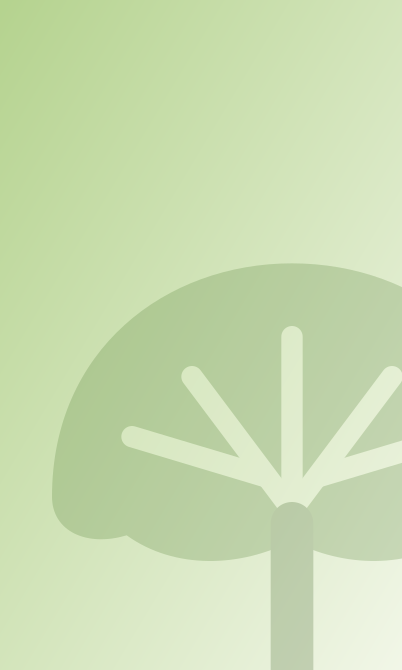
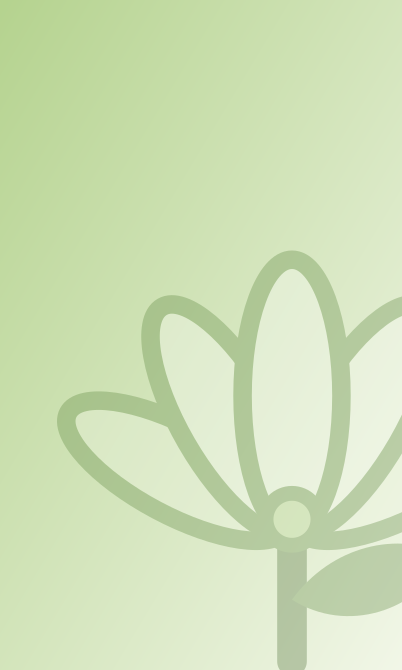
ロゴマークを市の花「コブシ」に変更
- 会派名（立川けやき会）との連想を避けるため、ケヤキの木のマークを
  市の花コブシをモチーフにしたオリジナルのマークに差し替え
- アイコン・OGP画像・暫定トップ画像も同マークで再生成
- 配色（緑系）はそのまま

Claude-Session: https://claude.ai/code/session_01H6FLpy8navHrVyXMBCfZrk

Changed region(s): [[0.1194, 0.3582, 1.0, 1.0]]

diff --git a/web/src/app/globals.css b/web/src/app/globals.css
@@ -105,7 +105,7 @@
   --color-mirai-progress-fill: #a9e89d;
 
   /* Gradient endpoints */
-  /* 立川市版 配色「ケヤキ」（市の木）。本家カラーからの変更は FORK_GUIDELINES 要件4 */
+  /* 立川市版の配色（緑系）。本家カラーからの変更は FORK_GUIDELINES 要件4 */
   --color-mirai-gradient-start: #b5d38f;
   --color-mirai-gradient-end: #e8f1d6;
 }
